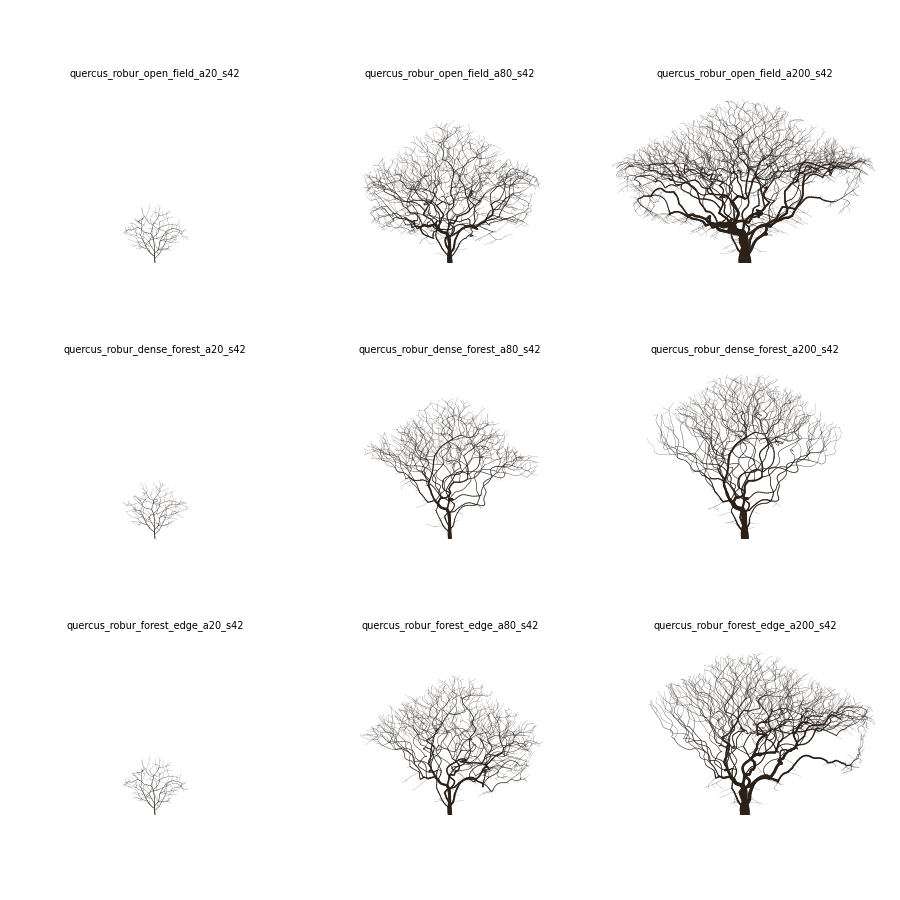
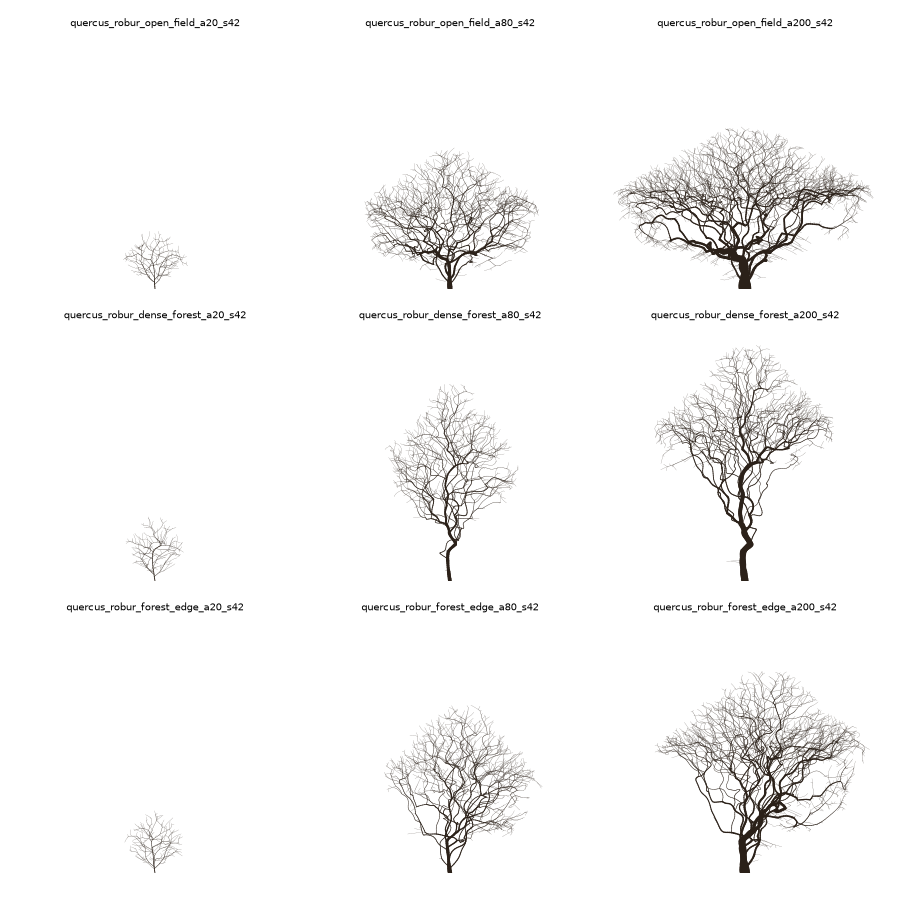
Oak: adopt shade_response = 0.6 and regenerate the definition of done
Dense-forest oaks are now taller with a longer clear bole and a narrower
crown (80 y: 29.7 m tall, crown base 9.9 m, 20.2 m wide, against 21.2 /
6.4 / 25.5 before), forest-edge oaks lean into the clearing as before, and
the open field is unchanged. The sheet and baseline metrics are regenerated
from scripts/definition_of_done.ps1 and scripts/dod_metrics.py; the
hard-envelope numbers are kept as docs/metrics/dod_hard_envelope.json.

Shade-response tests now set both sides of each comparison explicitly
instead of relying on the species default.

diff --git a/tests/test_growth.py b/tests/test_growth.py
@@ -45,9 +45,10 @@ def test_forest_sheds_more_than_open(small_oak):
 
 def test_shade_response_leaves_the_open_field_alone(small_oak):
     from treegen.core.growth import envelope_response
+    off = {**small_oak, "envelope": {**small_oak["envelope"], "shade_response": 0.0}}
     p = {**small_oak, "envelope": {**small_oak["envelope"], "shade_response": 1.0}}
     assert envelope_response(p, Scene())(80) == (1.0, (0.0, 0.0))
-    a = grow(small_oak, Scene(), 7, 30)
+    a = grow(off, Scene(), 7, 30)
     b = grow(p, Scene(), 7, 30)
     assert np.array_equal(a.pos, b.pos)
 
@@ -56,11 +57,12 @@ def test_shade_response_makes_a_forest_tree_taller_and_narrower(small_oak):
     from treegen.core.growth import envelope_response
     from treegen.metrics import tree_metrics
     forest = load_scene(ROOT / "scenes" / "dense_forest.toml")
+    off = {**small_oak, "envelope": {**small_oak["envelope"], "shade_response": 0.0}}
     p = {**small_oak, "envelope": {**small_oak["envelope"], "shade_response": 0.6}}
     stretch, lean = envelope_response(p, forest)(80)
     assert stretch > 1.2                                  # the stand shades the crown's sides
     assert abs(lean[0]) < 0.05 and abs(lean[1]) < 0.05    # ...evenly, so no lean
-    plain = tree_metrics(assemble_skeleton(grow(small_oak, forest, 5, 80), small_oak, 5))
+    plain = tree_metrics(assemble_skeleton(grow(off, forest, 5, 80), off, 5))
     shaded = tree_metrics(assemble_skeleton(grow(p, forest, 5, 80), p, 5))
     assert shaded["height"] > plain["height"] * 1.15
     assert shaded["crown_base"] > plain["crown_base"]

diff --git a/docs/HANDOFF.md b/docs/HANDOFF.md
@@ -213,7 +213,7 @@ model implies.
 2. **Fast-scrub cache keyed to more than one parameter set.** Today any tier-3 edit
    invalidates it, so the next age drag pays for a full max-age simulation.
 3. **Envelope versus light** — the main open design question from the doc, deferred twice.
-   *Status 2026-10-09: first pass done, oak not re-tuned yet; see the note below the list.*
+   *Status 2026-10-09: done for the oak (shade_response = 0.6); see the note below the list.*
    The envelope caps height, so a forest tree cannot outgrow the stand and the bare bole
    stays shorter than it should be. Candidate: make the envelope a soft bias once the light
    field exists, rather than a hard cap. This changes silhouettes everywhere and will need
@@ -275,8 +275,9 @@ around 16 m at reference age, so the oak escapes above them and spreads.
 The disk cache file name now carries `CACHE_VERSION` (it did not before, so a bump
 had no effect on disk). Bump it whenever growth output changes for the same params.
 
-Open decision: what k the oak should use. Then regenerate the definition-of-done
-sheet and re-record `docs/metrics/dod_baseline.json`.
+**Adopted:** `quercus.toml` uses `shade_response = 0.6`. `docs/definition_of_done.png`
+and `docs/metrics/dod_baseline.json` were regenerated with it; the hard-envelope numbers
+are kept as `docs/metrics/dod_hard_envelope.json`. Pine and birch are still at 0.
 
 ## 6. Working agreements from the session
 

diff --git a/README.md b/README.md
@@ -52,7 +52,7 @@ treegen species/quercus.toml --age 80 -o out/oak.usda --watch
 # the same batch as numbers (height, crown base, crown width, lean, DBH), compared
 # against the recorded baseline; --set tries a parameter without editing the TOML
 python scripts/dod_metrics.py --compare docs/metrics/dod_baseline.json
-python scripts/dod_metrics.py --set envelope.shade_response=0.6 --compare docs/metrics/dod_baseline.json
+python scripts/dod_metrics.py --set envelope.shade_response=0.3 --compare docs/metrics/dod_baseline.json
 
 # interactive viewer in the browser
 treegen --serve
@@ -193,8 +193,9 @@ are applied as `curve(n) / curve(n_ref)`, so the species file is exactly true at
 ## Known limitations / next steps
 
 - **Envelope vs light**: the envelope caps height. `envelope.shade_response` lets a
-  shaded crown stretch taller and narrower and lean toward open sky (default 0, so
-  nothing changes until a species opts in); see `docs/HANDOFF.md` for the numbers.
+  shaded crown stretch taller and narrower and lean toward open sky (default 0; the oak
+  uses 0.6). `docs/metrics/dod_hard_envelope.json` holds the oak's numbers from before,
+  and `docs/HANDOFF.md` the comparison.
 - **Occasional looping limbs** in shaded crowns. Colonization still chases lit
   attractors around the crown shell; it is visible in the dense forest at 80 years.
 - **Scenes are identical at 20 years**: same-age neighbours have not closed canopy yet.
